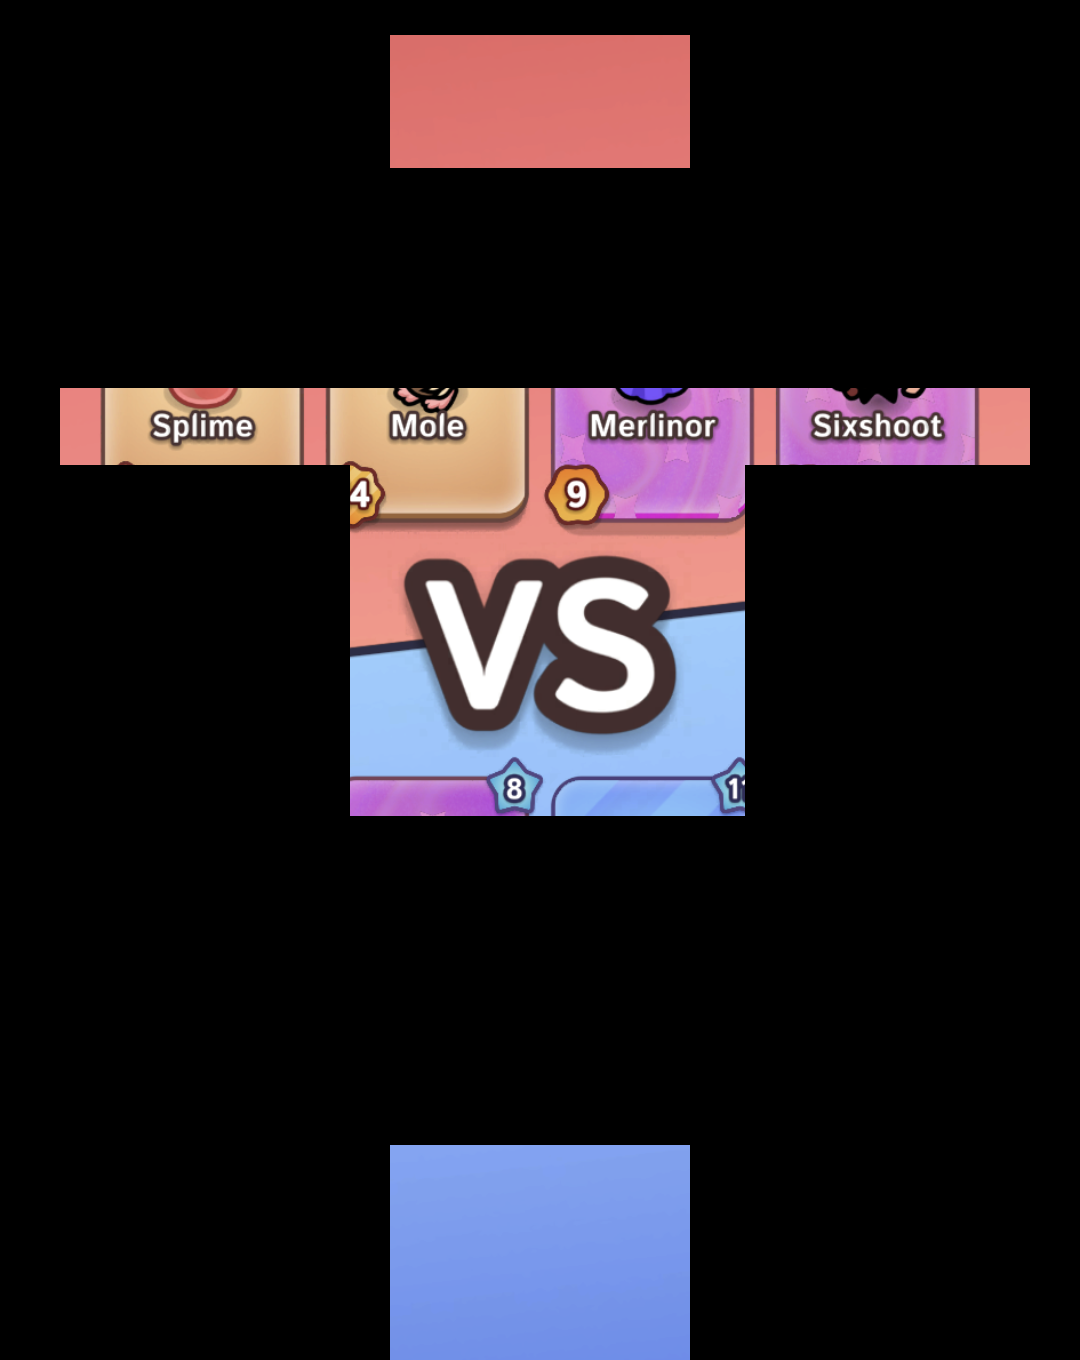
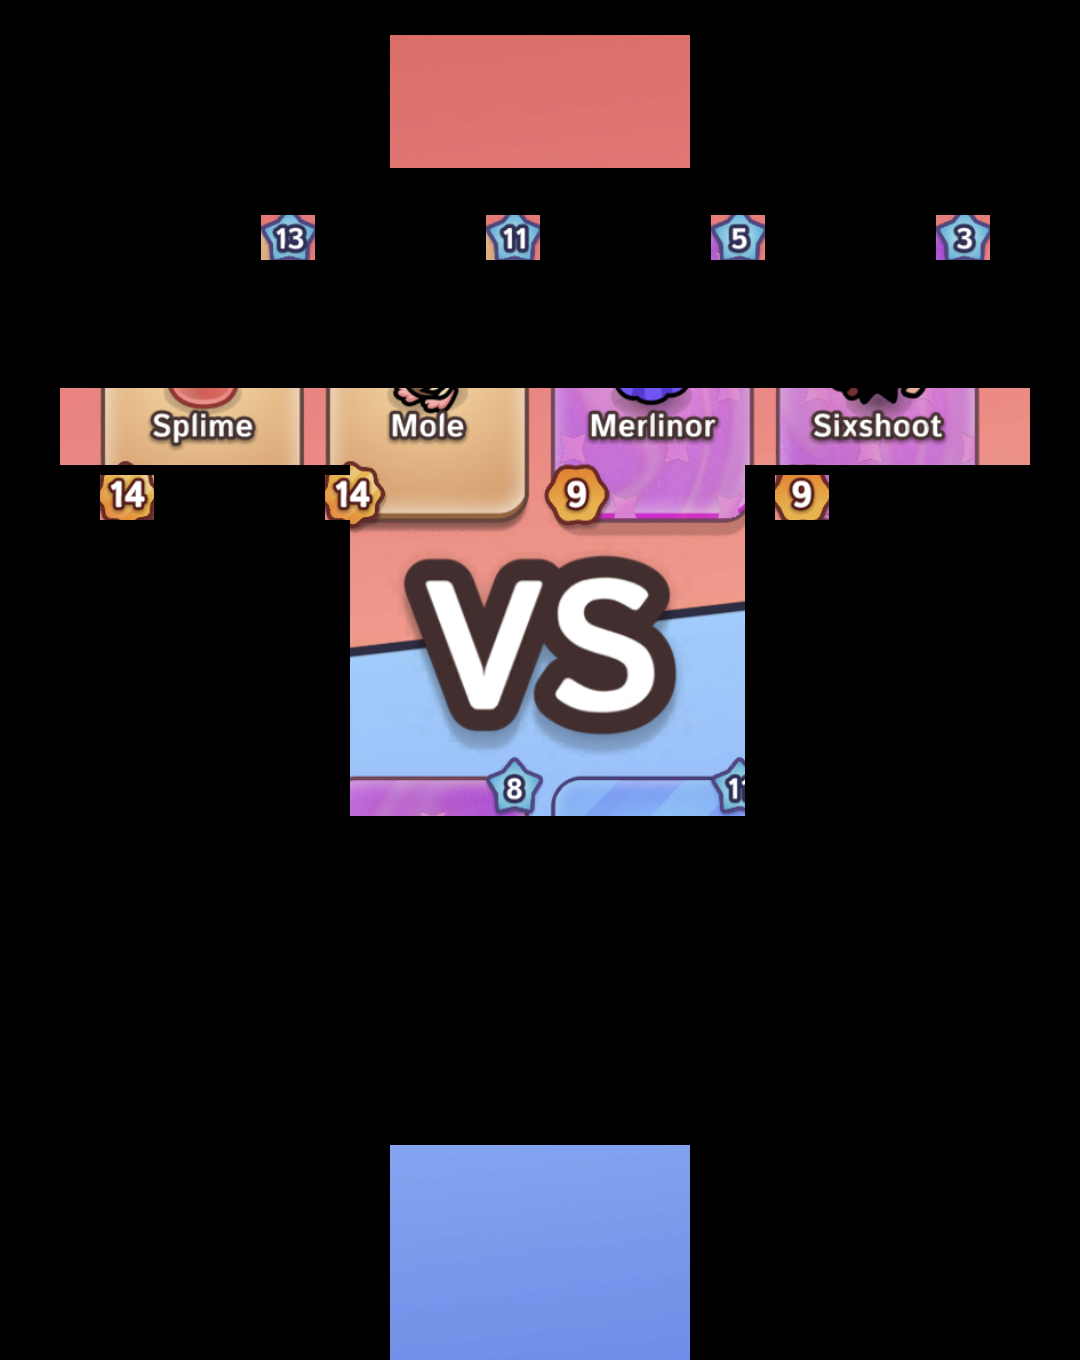
Read opponent levels and stars from all VS lineup slots

diff --git a/public/app.js b/public/app.js
@@ -1766,9 +1766,13 @@ function renderOffers(result){
   }
   $('board').replaceChildren();
   for(const [key,label] of [['enemy','Gegnerisches Deck · bisher erkannt'],['own','Eigenes Deck']]){
-    const cards=(result[key]??[]).filter(card=>card.name&&Number.isInteger(card.position));
-    if(cards.length)$('board').append(textEl('p',translate(label,language)+' · '+cards.map(card=>
-      displayCardNames(card.name)+(card.orange?.value!=null?` (${card.orange.value})`:'')).join(', ')));
+    const cards=(result[key]??[]).filter(card=>card.name&&Number.isInteger(card.position)).sort((a,b)=>a.position-b.position);
+    if(cards.length)$('board').append(textEl('p',translate(label,language)+' · '+cards.map(card=>{
+      const name=displayCardNames(card.name),level=card.orange?.value,stars=card.blue?.value;
+      if(key==='own')return name+(level!=null?` (${level})`:'');
+      const levelLabel=language==='en'?'Lv':'Stufe';
+      return `${name} (${levelLabel} ${level??'—'} · ★ ${stars??'—'})`;
+    }).join(', ')));
   }
   for(const [key,de,en] of [['enemyVisual','Gegnerische Bildtreffer','Enemy visual matches'],['ownVisual','Eigene Bildtreffer','Own visual matches']]){
     const rows=result[key]??[];

diff --git a/vision.py b/vision.py
@@ -97,15 +97,17 @@ def feature(roi):
             if stats[k,cv2.CC_STAT_AREA]>=max(20,largest*.06): keep[labels==k]=255
     return normalize(keep)
 
-def digit_feature(roi):
-    b,g,r=cv2.split(roi)
+def digit_mask(roi):
     white=((roi.min(axis=2)>175)&((roi.max(axis=2).astype(int)-roi.min(axis=2))<65)).astype(np.uint8)*255
     n,labels,stats,_=cv2.connectedComponentsWithStats(white)
     clean=np.zeros_like(white)
     for k in range(1,n):
         x,y,w,h,area=stats[k]
         if area>=5 and h>=roi.shape[0]*.28 and w<roi.shape[1]*.95: clean[labels==k]=255
-    return normalize(clean,40)
+    return clean
+
+def digit_feature(roi):
+    return normalize(digit_mask(roi),40)
 
 def similarity(a,b):
     den=np.linalg.norm(a)*np.linalg.norm(b)
@@ -226,11 +228,12 @@ def match_field_references(img,examples,side):
 def match_enemy_references(img,examples):
     return match_field_references(img,examples,'enemy')
 
-def number(img,box):
+def number(img,box,patterns=None,min_score=.70):
     f=digit_feature(cut(img,box)); scores={}
-    for value,t in numbers: scores[value]=max(scores.get(value,0),similarity(f,t))
+    for value,t in numbers if patterns is None else patterns:
+        scores[value]=max(scores.get(value,0),similarity(f,t))
     ranked=sorted(scores.items(),key=lambda x:-x[1]); v,s=ranked[0]
-    return {'value':v if s>=.70 and s-ranked[1][1]>=.025 else None,'candidate':v,'similarity':round(s,3),'box':box}
+    return {'value':v if s>=min_score and s-ranked[1][1]>=.025 else None,'candidate':v,'similarity':round(s,3),'box':box}
 
 def anchor_score(img,box,anchor):
     roi=cv2.cvtColor(cut(img,box),cv2.COLOR_BGR2GRAY)
@@ -390,8 +393,10 @@ def read_lineup_reveal(img,offset,language):
         card=read_small_deck_caption(img,x-14,1053+dy,1104+dy,language,
                                     lineup_reveal_english_names if language=='en' else ())
         if card:
+            orange=number(img,[x,1125+dy,x+54,1170+dy],lineup_badge_numbers,.86)
+            blue=number(img,[x+161,865+dy,x+215,910+dy],lineup_badge_numbers,.86)
             cards.append(dict(card,position=position,side='enemy',nameSource='opponent-lineup-reveal',
-                              box=[x,864+dy,x+205,1166+dy]))
+                              box=[x,864+dy,x+205,1166+dy],orange=orange,blue=blue))
     return cards
 
 def read_hearts(img, layout='full'):
@@ -1151,6 +1156,10 @@ lineup_reveal_vs=np.array([list(row) for row in lineup_reveal_data['vs']],dtype=
 lineup_reveal_english_names=[
     (name,np.array([list(row) for row in mask],dtype=np.uint8))
     for name,mask in lineup_reveal_data['english_names'].items()
+]
+lineup_badge_numbers=numbers+[
+    (int(value),normalize(np.array([list(row) for row in mask],dtype=np.uint8)*255,40))
+    for value,mask in lineup_reveal_data['badges'].items()
 ]
 action_digits=[(value,template) for value,template in numbers if 1<=value<=9]
 for value,rows in json.loads((ROOT/'data'/'choice-digits.json').read_text(encoding='utf-8')).items():

diff --git a/test_enemy_deck.py b/test_enemy_deck.py
@@ -42,6 +42,8 @@ class PaidLineupReveal(unittest.TestCase):
         self.assertEqual(result['offers'],[])
         self.assertEqual([(card['position'],card['name']) for card in result['enemy']],
                          [(0,'Splime'),(1,'Maulwurf'),(2,'Merlinor'),(3,'Sixshoot')])
+        self.assertEqual([(card['orange']['value'],card['blue']['value']) for card in result['enemy']],
+                         [(14,13),(14,11),(9,5),(9,3)])
         small=cv2.resize(image,(168,364),interpolation=cv2.INTER_AREA)
         small[189:214,65:104]=0
         self.assertIsNone(vision.lineup_reveal_offset(small))
